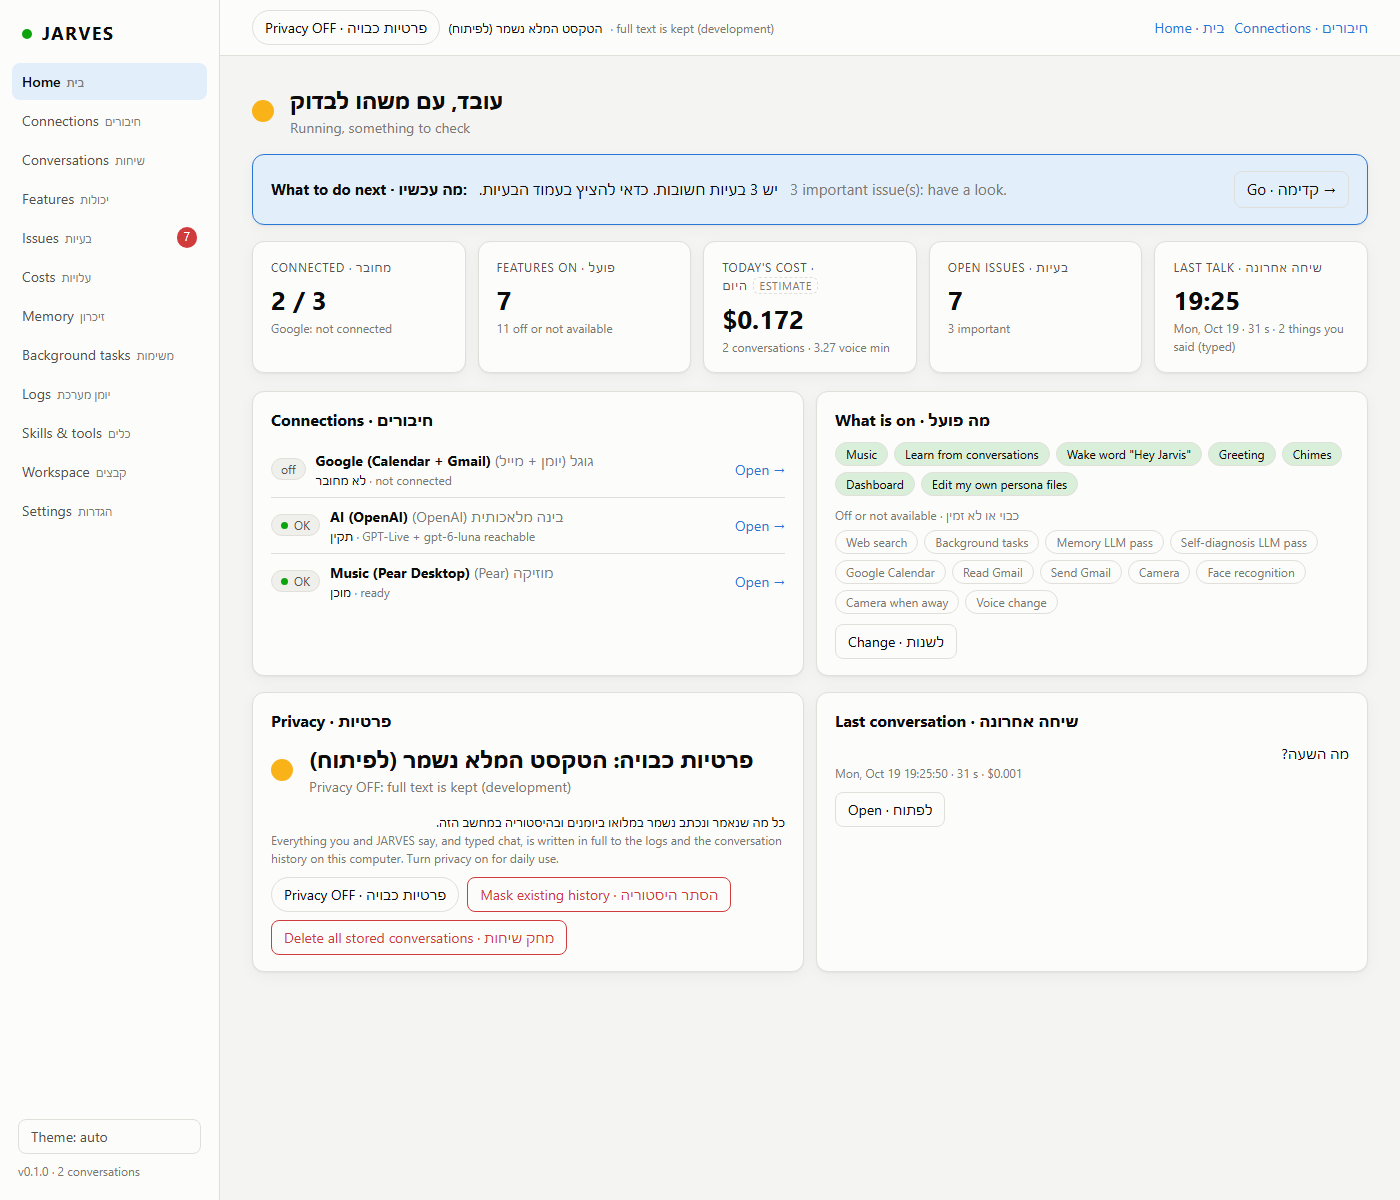
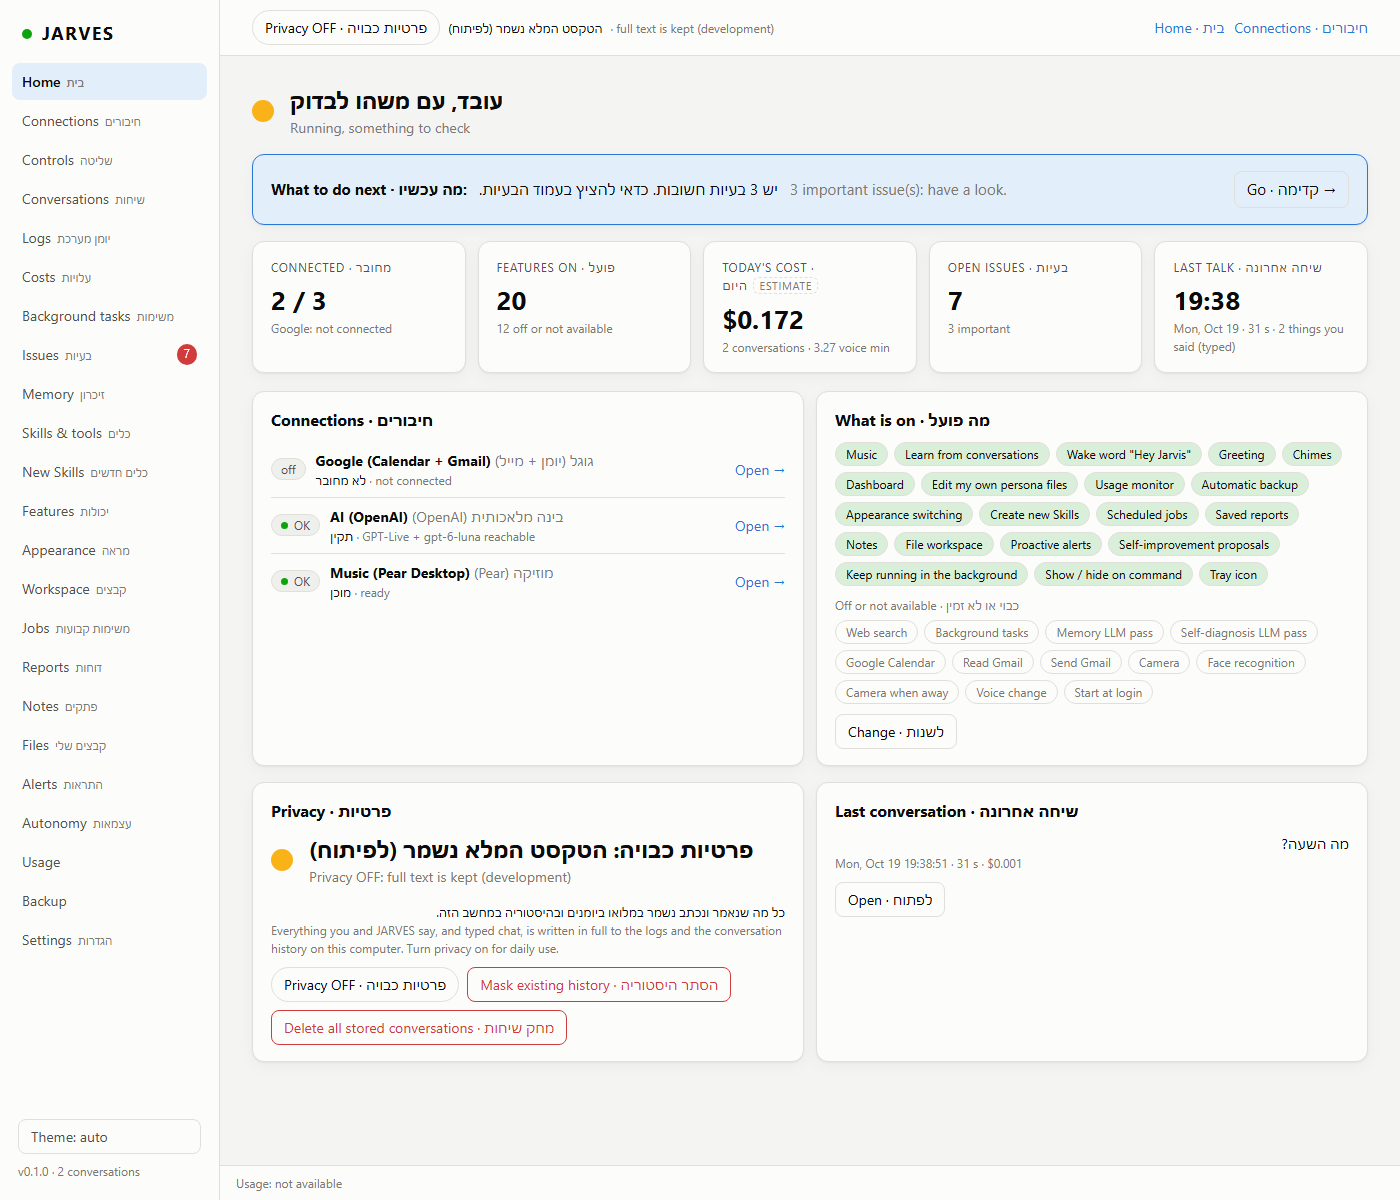
WP-K: screenshots after merge, review doc test count (#17)

diff --git a/docs/reviews/SWV2_WPK.md b/docs/reviews/SWV2_WPK.md
@@ -55,7 +55,7 @@ Screenshots (automatic headless Edge captures, not a hands-on check), `docs/revi
 `wpk_connections_reconnect_dark.png`.
 
 ## Tests
-`python -m pytest core/tests -q`: **562 passed, 3 skipped**. New: `tests/test_google_setup.py` (17: full first run
+`python -m pytest core/tests -q`: **789 passed, 3 skipped** (after merging swv2-integrate; 562 before). New: `tests/test_google_setup.py` (17: full first run
 with fake Downloads/browser/Google, resume after `q`, weekly reconnect, already connected, calendar-only,
 access_denied fix, disabled API, Web client rejected, download timeout, gcloud yes/no, voice help + live pickup,
 feature reason, Connections/Home API, no secrets/address served), `tests/test_privacy.py` (6).
@@ -90,3 +90,6 @@ $0 (no paid API calls; no Google login).
 - Side effect during development: one manual smoke run of the CLI opened a real browser tab on
   console.cloud.google.com/projectcreate and put "JARVES home" on the clipboard (defaults were bound at import
   time; fixed so tests/fakes always win). No login, nothing submitted.
+
+- Merge with swv2-integrate: WP-M1's runtime page (`pageHome`) is kept as **Controls** (`#/runtime`); WP-K Home is the start page; all nav entries from M1-M6 kept, with Hebrew labels.
+
